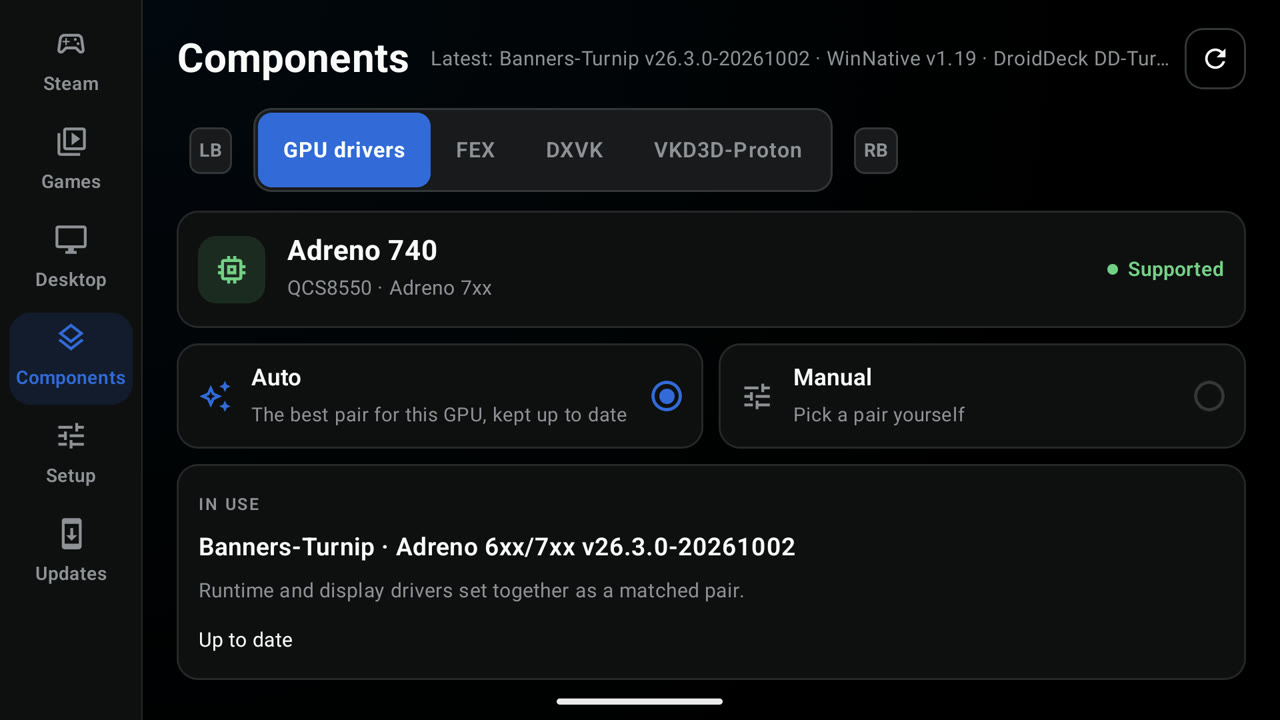
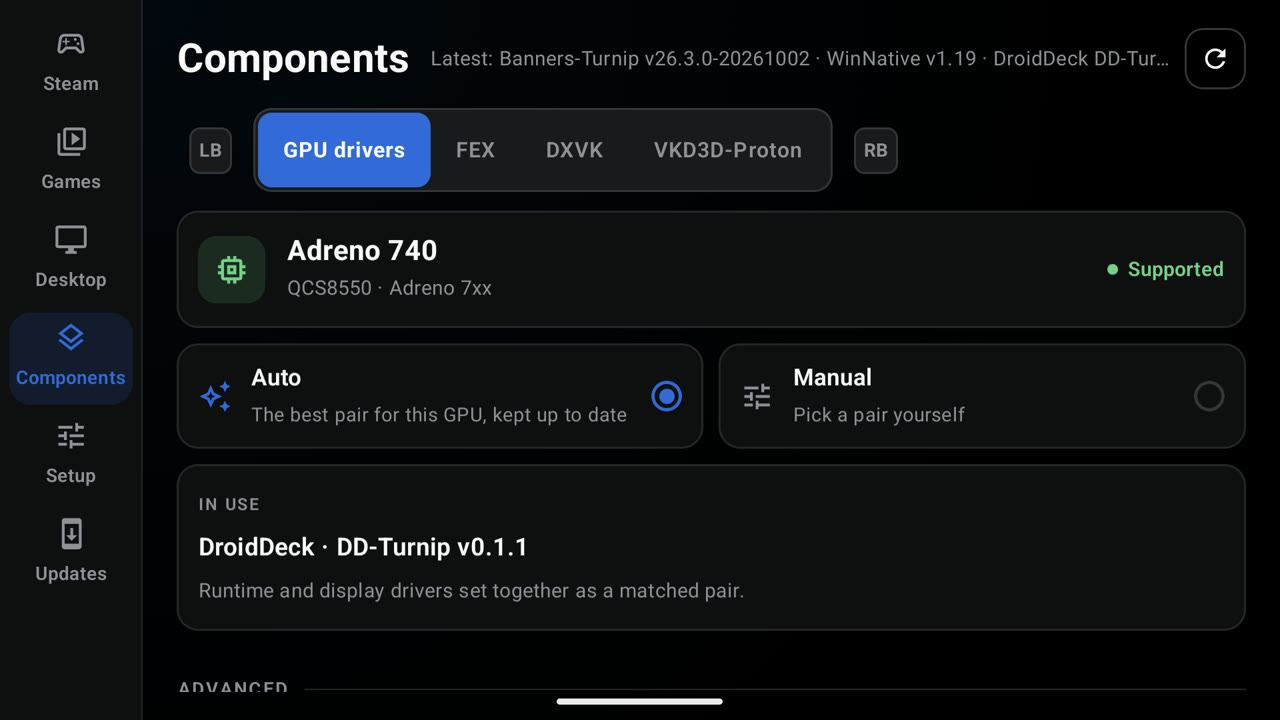
docs: GPU drivers shot with DD-Turnip in use

Changed region(s): [[0.1562, 0.7333, 0.625, 0.7944], [0.125, 0.9472, 0.2188, 0.9778], [0.1562, 0.8861, 0.2188, 0.9167]]

diff --git a/docs/releases/0.3.0.md b/docs/releases/0.3.0.md
@@ -30,7 +30,7 @@ Steam's own startup is down from about 31 seconds to about 6, and that makes **O
 ### GPU drivers that set themselves
 A new **GPU drivers** tab detects your GPU and keeps a matched pair of runtime and display drivers installed for it, including DroidDeck's own DD-Turnip builds. Switch to **Manual** to pick a pair yourself.
 
-![Components GPU drivers tab on an Adreno 740, set to Auto](media/0.3.0/gpu-drivers.jpg)
+![Components GPU drivers tab on an Adreno 740, set to Auto with DD-Turnip v0.1.1 in use](media/0.3.0/gpu-drivers.jpg)
 
 ### Linux apps from Flathub, or bring your own
 Turn on the **Flathub Store** in Setup to install ARM64 apps and games from Flathub. They open full screen from the front end with your controller. The Desktop page also takes your own apps: a script, an AppImage, a GitHub repo's newest ARM64 AppImage, or a Flatpak ID.
